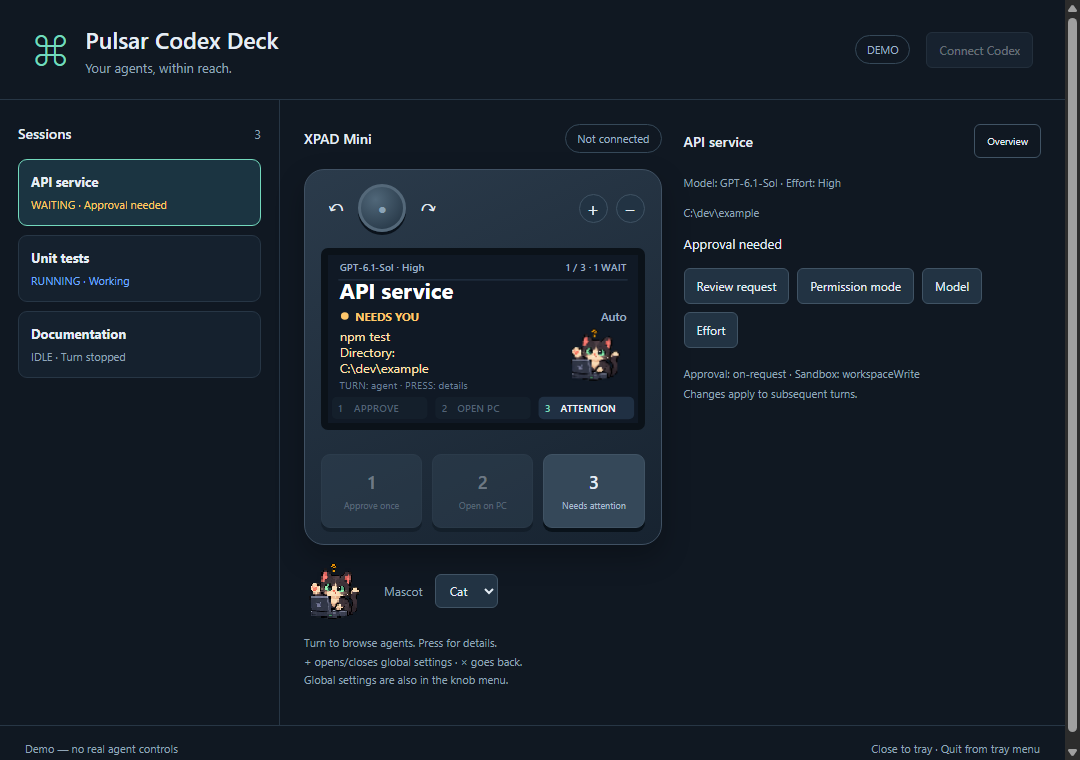
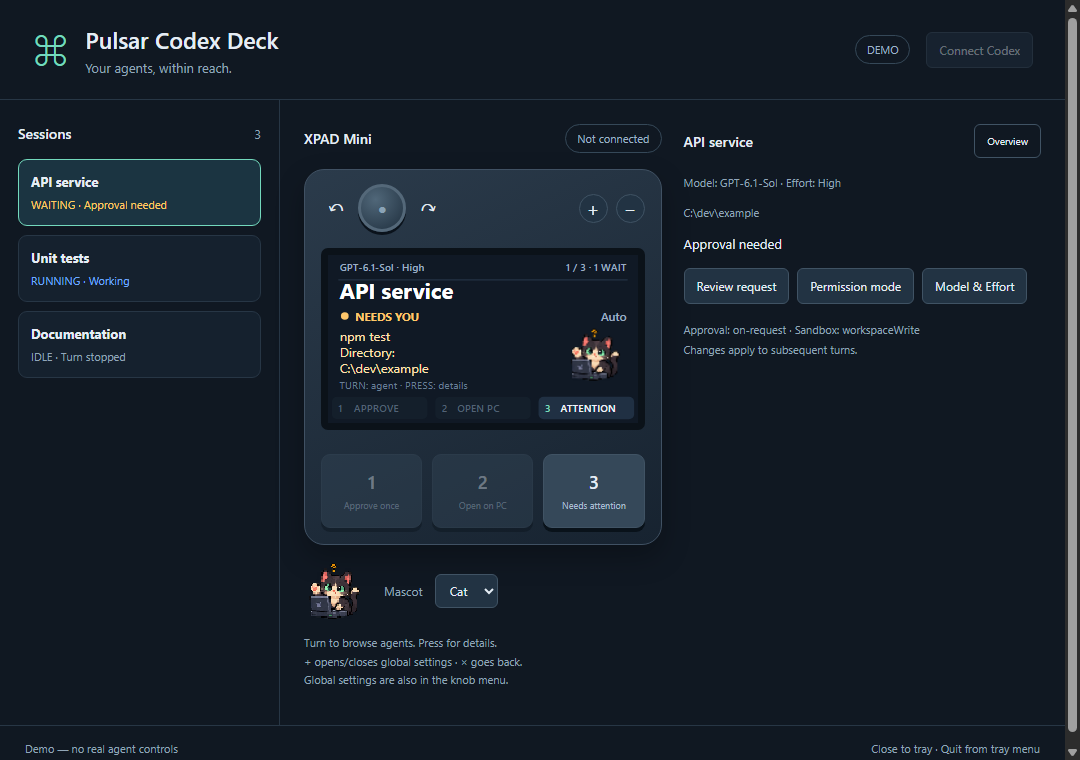
Select Model then Effort in one reviewed pad flow

Changed region(s): [[0.6111, 0.3934, 0.8556, 0.5447], [0.8861, 0.3329, 0.9778, 0.4237]]

diff --git a/src/main/controller.ts b/src/main/controller.ts
@@ -1,4 +1,4 @@
-import { Row, Snapshot } from '../shared/types';
+import { Row, Snapshot, ModelChoice } from '../shared/types';
 import { isMascotChoice, MascotChoice } from './mascot';
 export const MODES = ['Read-only', 'Auto', 'No prompts', 'YOLO / Full access'];
 export type Page = 'agent' | 'details' | 'settings' | 'model' | 'effort' | 'confirm' | 'global';
@@ -26,6 +26,7 @@ export class Controller {
   selected = ''; page: Page = 'agent'; cursor = 0; scroll = 0; notice = ''; busy = false;
   confirm: ({kind:'permission';row:Row;mode:string}|{kind:'model'|'effort';row:Row;model:string;effort:string|null;label:string;catalogToken:string}) | null = null;
   displayedApproval: {id: string; session: string; token: string} | null = null;
+  configurationDraft:{row:Row;model:ModelChoice;catalogToken:string}|null=null;
   preferences = {brightness: 85, lights: true, mascot:'cat' as MascotChoice};
   loadPreferences(value:unknown) {
     if(!value||typeof value!=='object')return;
@@ -49,26 +50,38 @@ export class Controller {
   get row() { return this.snapshot.rows.find(r => r.id === this.selected); }
   get attention() { return this.snapshot.rows.filter(r => r.state === 'waiting' || r.state === 'error'); }
   get modelChoices() { return this.snapshot.models??[]; }
-  get effortChoices() { return this.modelChoices.find(m=>m.id===this.row?.settings?.model)?.efforts??[]; }
+  get effortChoices() { return this.configurationDraft?.model.efforts??[]; }
   get canChooseModel() { return !!this.row?.settings_token&&!!this.snapshot.models_token&&this.modelChoices.length>0; }
-  get canChooseEffort() { return this.canChooseModel&&this.effortChoices.length>0; }
   get pickerLabels() {
     return [...(this.page==='model'?this.modelChoices.map(m=>m.label+(m.id===this.row?.settings?.model?' · current':'')):
-      this.effortChoices.map(e=>effortLabel(e)+(e===this.row?.settings?.effort?' · current':''))),'Back'];
+      this.effortChoices.map(e=>effortLabel(e)+(this.configurationDraft?.model.id===this.row?.settings?.model&&e===this.row?.settings?.effort?' · current':''))),'Back'];
   }
-  openConfiguration(kind:'model'|'effort') {
+  openConfiguration() {
     if(this.busy)return;
-    if(!(kind==='model'?this.canChooseModel:this.canChooseEffort)){this.notice=this.snapshot.models_error||'Choices unavailable for this agent';return;}
-    this.page=kind;this.displayedApproval=null;
-    this.cursor=Math.max(0,kind==='model'?this.modelChoices.findIndex(m=>m.id===this.row?.settings?.model):this.effortChoices.indexOf(this.row?.settings?.effort));
+    if(!this.canChooseModel){this.notice=this.snapshot.models_error||'Choices unavailable for this agent';return;}
+    this.page='model';this.displayedApproval=null;this.configurationDraft=null;this.confirm=null;
+    this.cursor=Math.max(0,this.modelChoices.findIndex(m=>m.id===this.row?.settings?.model));
+  }
+  cancelOrBack() {
+    if(this.busy)return;
+    if(this.page==='confirm'&&this.confirm?.kind==='model'&&this.configurationDraft){
+      this.page='effort';this.cursor=Math.max(0,this.effortChoices.indexOf(this.confirm.effort??''));this.confirm=null;
+      if(!this.effortChoices.length)this.cancelOrBack();
+    }else if(this.page==='effort'&&this.configurationDraft){
+      this.page='model';this.cursor=Math.max(0,this.modelChoices.findIndex(m=>m.id===this.configurationDraft?.model.id));this.configurationDraft=null;
+    }else this.back();
+  }
+  private reviewConfiguration(effort:string|null) {
+    const draft=this.configurationDraft;if(!draft)return;
+    this.confirm={kind:'model',row:structuredClone(draft.row),model:draft.model.id,effort,label:draft.model.label,catalogToken:draft.catalogToken};this.page='confirm';
   }
   get menu() { return ['Activity / request', ...(this.row?.settings ? ['Permission mode'] : []),
-    ...(this.canChooseModel?['Model']:[]),...(this.canChooseEffort?['Effort']:[]),
+    ...(this.canChooseModel?['Model & Effort']:[]),
     ...(this.row?.actions.includes('reject') ? ['Reject request'] : []),
     ...(this.row?.actions.includes('stop') ? ['Stop turn'] : []),
     ...(this.row?.actions.includes('continue') ? ['Continue'] : []), 'Global settings', 'Back']; }
   get globalMenu() { return [`Screen brightness: ${this.preferences.brightness}%`, `Status lights: ${this.preferences.lights ? 'On' : 'Off'}`, `Mascot: ${this.preferences.mascot==='cat'?'Cat':this.preferences.mascot==='owl'?'Owl':'Off'}`, 'Close settings']; }
-  back() { this.page = 'agent'; this.cursor = 0; this.scroll = 0; this.confirm = null; this.displayedApproval = null; }
+  back() { this.page = 'agent'; this.cursor = 0; this.scroll = 0; this.confirm = null; this.configurationDraft=null;this.displayedApproval = null; }
   select(id: string) { if (this.busy) return; if (this.snapshot.rows.some(r => r.id === id)) { this.selected = id; this.back(); } }
   action(verb: string, row = this.row): Intent | undefined {
     if (!row || !row.actions.includes(verb)) return;
@@ -122,22 +135,26 @@ export class Controller {
       if (entry === 'Activity / request') { this.scroll += 3; }
       else if (entry === 'Global settings') this.toggleGlobal();
       else if (entry === 'Permission mode') { this.page = 'settings'; this.cursor = Math.max(0,MODES.indexOf(modeLabel(this.row?.settings))); }
-      else if(entry==='Model')this.openConfiguration('model');
-      else if(entry==='Effort')this.openConfiguration('effort');
+      else if(entry==='Model & Effort')this.openConfiguration();
       else if (entry === 'Stop turn' || entry === 'Continue' || entry === 'Reject request') { this.back(); return this.action(entry === 'Stop turn' ? 'stop' : entry === 'Continue' ? 'continue' : 'reject'); }
       else if (entry === 'Back') this.back();
     } else if (this.page === 'settings') {
       if (this.cursor === MODES.length) this.back();
       else if (this.row) { this.confirm = {kind:'permission',row: structuredClone(this.row), mode: MODES[this.cursor]}; this.page = 'confirm'; }
     } else if(this.page==='model'||this.page==='effort'){
-      const kind=this.page;
-      if(this.cursor===this.pickerLabels.length-1){this.back();return;}
-      const target=kind==='model'?this.modelChoices[this.cursor]:this.modelChoices.find(m=>m.id===this.row?.settings?.model);
-      if(!this.row||!target||!this.snapshot.models_token){this.notice='Choices changed. Reopen the selector.';this.back();return;}
-      const currentEffort=this.row.settings?.effort;
-      const effort=kind==='effort'?target.efforts[this.cursor]:target.efforts.includes(currentEffort)?currentEffort:target.defaultEffort;
-      if(effort===undefined){this.back();this.notice='Effort choices changed. Reopen the selector.';return;}
-      this.confirm={kind,row:structuredClone(this.row),model:target.id,effort,label:target.label,catalogToken:this.snapshot.models_token};this.page='confirm';
+      if(this.cursor===this.pickerLabels.length-1){this.cancelOrBack();return;}
+      if(this.page==='model'){
+        const target=this.modelChoices[this.cursor];
+        if(!this.row||!target||!this.snapshot.models_token){this.back();this.notice='Choices changed. Reopen the selector.';return;}
+        this.configurationDraft={row:structuredClone(this.row),model:structuredClone(target),catalogToken:this.snapshot.models_token};
+        if(!target.efforts.length){this.reviewConfiguration(null);return;}
+        const current=this.row.settings?.effort,initial=target.efforts.includes(current)?current:target.defaultEffort;
+        this.page='effort';this.cursor=Math.max(0,target.efforts.indexOf(initial??''));
+      }else{
+        const effort=this.effortChoices[this.cursor];
+        if(effort===undefined){this.back();this.notice='Effort choices changed. Reopen the selector.';return;}
+        this.reviewConfiguration(effort);
+      }
     } else if (this.page === 'confirm') {
       const confirmation = this.confirm; this.back();
       if(confirmation?.kind==='permission')return {method:'settings', params:{id:confirmation.row.id, session_id:confirmation.row.session_id, mode:confirmation.mode, token:confirmation.row.settings_token}};

diff --git a/src/main/display.ts b/src/main/display.ts
@@ -38,17 +38,18 @@ export function displaySvg(c:Controller,mascotImage?:string):string {
     const start=Math.max(0,Math.min(c.cursor-1,c.menu.length-2));
     c.menu.slice(start,start+2).forEach((entry,i)=>{const active=start+i===c.cursor;body+=`<rect x="5" y="${75+i*17}" width="230" height="16" rx="3" fill="${active?'#263b4c':'#111c28'}"/>`+text(10,87+i*17,(active?'› ':'  ')+entry,active?'#7ed9bd':'#8b9eb3',9,500);});
   }else if(c.page==='settings'||c.page==='global'||c.page==='model'||c.page==='effort'){
-    const global=c.page==='global',picker=c.page==='model'||c.page==='effort',options=global?c.globalMenu:picker?c.pickerLabels:[...MODES,'Back'];top=text(9,15,global?'GLOBAL SETTINGS':c.page==='model'?'SELECT MODEL':c.page==='effort'?'SELECT EFFORT':'PERMISSION MODE','#7ed9bd',10,650);
+    const global=c.page==='global',picker=c.page==='model'||c.page==='effort',options=global?c.globalMenu:picker?c.pickerLabels:[...MODES,'Back'];top=text(9,15,global?'GLOBAL SETTINGS':c.page==='model'?'MODEL · 1 / 2':c.page==='effort'?'EFFORT · 2 / 2':'PERMISSION MODE','#7ed9bd',10,650);
+    if(c.page==='effort')top+=text(231,15,clip(c.configurationDraft?.model.label??'',19),'#9cacc0',8,500,'end');
     const start=Math.max(0,Math.min(c.cursor-1,options.length-3));
     options.slice(start,start+3).forEach((option,i)=>{const y=29+i*23,active=start+i===c.cursor;body+=`<rect x="5" y="${y}" width="230" height="21" rx="4" fill="${active?'#263b4c':'#111c28'}"/>`+text(11,y+14,(active?'› ':'  ')+option,active?'#fff':'#90a3b8',11,active?600:400);});
-    body+=text(9,108,global?'TURN: choose · PRESS: change · + close':'TURN: choose · PRESS: review · × back','#738ba2',8);footer='';
+    body+=text(9,108,global?'TURN: choose · PRESS: change · + close':c.page==='model'?'TURN: choose · PRESS: next · × cancel':c.page==='effort'?'TURN: choose · PRESS: review · × model':'TURN: choose · PRESS: review · × back','#738ba2',8);footer='';
   }else{
     const q=c.confirm;
     if(q&&q.kind!=='permission'){
-      top=text(9,15,q.kind==='model'?'CONFIRM MODEL CHANGE':'CONFIRM EFFORT CHANGE','#ffc76b',9,650);
+      top=text(9,15,q.kind==='model'?'CONFIRM MODEL & EFFORT':'CONFIRM EFFORT CHANGE','#ffc76b',9,650);
       body+=text(9,39,clip(q.label,28),'#fff',14,650)+text(9,58,'Effort: '+effortLabel(q.effort),'#d6e2ee',12,600)+text(9,75,clip(q.row.label,32),'#aabdd0',10)+text(9,90,'Applies to subsequent turns','#ffc76b',9);
     }else{const mode=q?.mode||'';top=text(9,15,'CONFIRM PERMISSION CHANGE','#ffc76b',9,650);body+=text(9,41,mode,'#fff',16,650)+text(9,61,clip(q?.row.label||'',30),'#aabdd0',11)+text(9,83,mode.includes('Full')?'No sandbox or approval prompts':'Applies to subsequent turns','#ffc76b',10);}
-    body+=text(9,104,'PRESS KNOB: apply   ·   × cancel','#8da3b9',9);footer='';
+    body+=text(9,104,q?.kind==='model'?'PRESS KNOB: apply   ·   × effort':'PRESS KNOB: apply   ·   × cancel','#8da3b9',9);footer='';
   }
   if(c.notice||c.busy)body+=`<rect x="4" y="97" width="232" height="15" rx="3" fill="#263b4c"/>`+text(9,108,clip(c.busy?'Sending…':c.notice,39),'#ffc76b',9);
   return `<svg xmlns="http://www.w3.org/2000/svg" width="240" height="135"><rect width="240" height="135" fill="#101925"/><g font-family="Segoe UI,DejaVu Sans,sans-serif">${top}<path d="M8 20H232" stroke="#233244"/>${body}${footer}</g></svg>`;

diff --git a/src/main/index.ts b/src/main/index.ts
@@ -56,7 +56,7 @@ async function run() {
   function view() { return {snapshot:c.snapshot, selected:c.selected, page:c.page, cursor:c.cursor,
     menu:c.menu, review:c.row, confirmation:c.confirm, busy:c.busy, notice:c.notice, preferences:c.preferences, canApprove:c.canApprove,
     device:{connected:device.connected, ready:protocol.ready && keysReady && !remapping, keysReady, error:deviceError},
-    inputMode:'Direct USB', demo, modelLabel:modelLabel(c.row,c.snapshot),effortLabel:effortLabel(c.row?.settings?.effort),canChooseModel:c.canChooseModel,canChooseEffort:c.canChooseEffort,...visual()}; }
+    inputMode:'Direct USB', demo, modelLabel:modelLabel(c.row,c.snapshot),effortLabel:effortLabel(c.row?.settings?.effort),canChooseModel:c.canChooseModel,...visual()}; }
   function publish() { if (win && !win.isDestroyed()) win.webContents.send('view', view()); }
   async function execute(intent?: Intent) {
     if (!intent || c.busy || !backend) return;
@@ -72,7 +72,7 @@ async function run() {
     if(c.busy)return;
     let intent:Intent|undefined;
     if(name==='previous')c.rotate(-1);else if(name==='next')c.rotate(1);
-    else if(name==='press')intent=c.press();else if(name==='plus')c.toggleGlobal();else if(name==='minus')c.back();
+    else if(name==='press')intent=c.press();else if(name==='plus')c.toggleGlobal();else if(name==='minus')c.cancelOrBack();
     else throw new Error('Invalid control');
     writeFileSync(preferenceFile,JSON.stringify(c.preferences)); publish(); await execute(intent);
   }
@@ -118,7 +118,7 @@ async function run() {
     finally{c.busy=false;publish();}
   });
   ipcMain.handle('action', (_e,verb) => {
-    if(verb==='model'||verb==='effort'){c.openConfiguration(verb);publish();return;}
+    if(verb==='model'){c.openConfiguration();publish();return;}
     if (verb === 'review') { if (c.row?.review && !c.busy) { c.page='details';c.cursor=0; } publish(); return; }
     if (verb === 'settings') { if (c.row?.settings && !c.busy) { c.page='settings'; c.cursor=0; } publish(); return; }
     if (verb === 'approve' || verb === 'reject') {

diff --git a/ui/app.js b/ui/app.js
@@ -27,8 +27,7 @@ function render(v){
  for(const [verb,label] of [['focus','Open on PC'],['stop','Stop turn'],['continue','Continue']]) if(r?.actions.includes(verb)) actions.append(button(label,verb,!v.busy));
  if(r?.review)actions.append(button('Review request','review',!v.busy));
  if(r?.settings)actions.append(button('Permission mode','settings',!v.busy));
- if(v.canChooseModel)actions.append(button('Model','model',!v.busy));
- if(v.canChooseEffort)actions.append(button('Effort','effort',!v.busy));
+ if(v.canChooseModel)actions.append(button('Model & Effort','model',!v.busy));
  const settings=r?.settings;$('settings').textContent=settings?`Approval: ${typeof settings.approvalPolicy==='string'?settings.approvalPolicy:JSON.stringify(settings.approvalPolicy)} · Sandbox: ${settings.sandboxPolicy?.type}\nChanges apply to subsequent turns.`:r?.settings_error||r?.control_hint||'';
  $('review-panel').hidden=v.page!=='details'||!v.review?.review;$('review').textContent=v.review?.review||'';
  $('approve').disabled=v.busy||!v.canApprove;$('reject').disabled=v.busy||!v.review?.actions.includes('reject');

diff --git a/tests/test_adapter.py b/tests/test_adapter.py
@@ -67,7 +67,7 @@ class AdapterTests(unittest.TestCase):
         self.assertEqual(effective_settings({'collaborationMode':{'settings':{'reasoning_effort':'medium'}}})['effort'],'medium')
         self.assertIsNone(effective_settings({})['effort'])
 
-    def test_model_update_applies_supported_fallback_and_preserves_permission_fields(self):
+    def test_model_update_sends_reviewed_pair_and_preserves_permission_fields(self):
         a, current, models, params = self.configure_fixture()
         a.read_settings = Mock(side_effect=[current,{**current,'model':'model-b','effort':'medium'}])
         a.handle('configuration',params)
@@ -79,6 +79,12 @@ class AdapterTests(unittest.TestCase):
         a.read_settings = Mock(side_effect=[current,{**current,'effort':'high'}])
         a.handle('configuration',params)
         a.controls.rpc.request.assert_called_once_with('thread/settings/update',{'threadId':'session','effort':'high'})
+
+    def test_combined_model_flow_accepts_any_explicit_supported_effort(self):
+        a, current, models, params=self.configure_fixture();params['effort']='high'
+        a.read_settings=Mock(side_effect=[current,{**current,'model':'model-b','effort':'high'}])
+        a.handle('configuration',params)
+        a.controls.rpc.request.assert_called_once_with('thread/settings/update',{'threadId':'session','model':'model-b','effort':'high'})
 
     def test_stale_settings_and_catalog_cannot_change_model(self):
         for stale in ('token','catalog_token'):

diff --git a/python/adapter.py b/python/adapter.py
@@ -203,9 +203,8 @@ class Adapter:
                 raise ValueError("Effort is not supported by the current model")
             update = {"effort": effort}
         else:
-            expected = current.get("effort") if current.get("effort") in target["efforts"] else target["defaultEffort"]
-            if effort != expected:
-                raise ValueError("Model or Effort changed. Review the selection again.")
+            if (target["efforts"] and effort not in target["efforts"]) or (not target["efforts"] and effort is not None):
+                raise ValueError("Effort is not supported by the selected model")
             update = {"model": target["id"]}
             if effort is not None:
                 update["effort"] = effort

diff --git a/README.md b/README.md
@@ -27,13 +27,15 @@ the actual agent state independently of the animation.
 The pad's top line shows the selected agent's **Model · Effort**. Both values
 also appear beneath the agent's name in the PC app.
 
-To change either on the pad: **press the knob → Model or Effort → turn to
-choose → press to review → press again to apply**. Use × to cancel. The PC
-app's Model/Effort buttons open the same selectors in the live pad preview.
+To change the pair on the pad: **press the knob → Model & Effort → choose a
+model → choose its Effort → review both → press to apply**. Turn the knob to
+browse and press to advance. × goes back one step; from the model list it
+cancels the flow. The PC app's Model & Effort button opens the same flow.
 
 Choices come from Codex's model catalog, including each model's supported
-Effort values. A model change preserves Effort when supported; otherwise the
-confirmation shows the new model's default. Changes apply to subsequent turns
+Effort values. The Effort step initially highlights your current value when
+supported, otherwise the selected model's default; choose any supported value.
+No settings are sent until you confirm the complete pair. Changes apply to subsequent turns
 on that agent. Permission settings are preserved. If settings or model choices
 change while a selection is being reviewed, reopen the selector to review it again.
 
